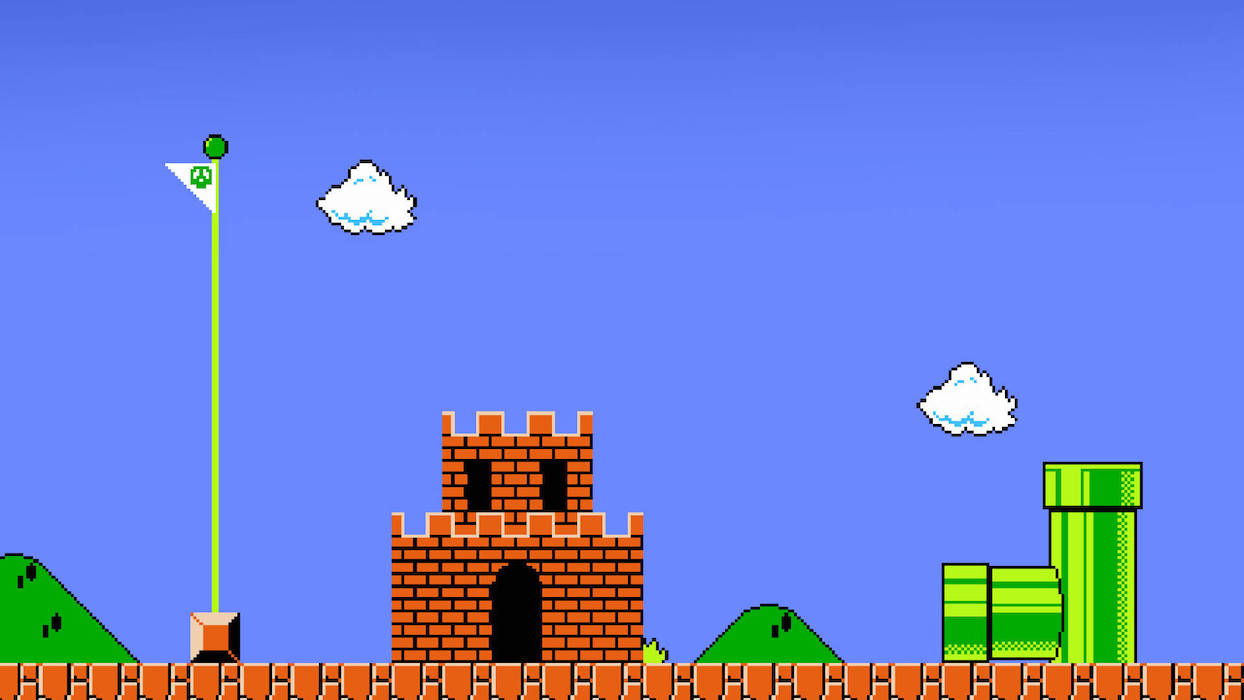
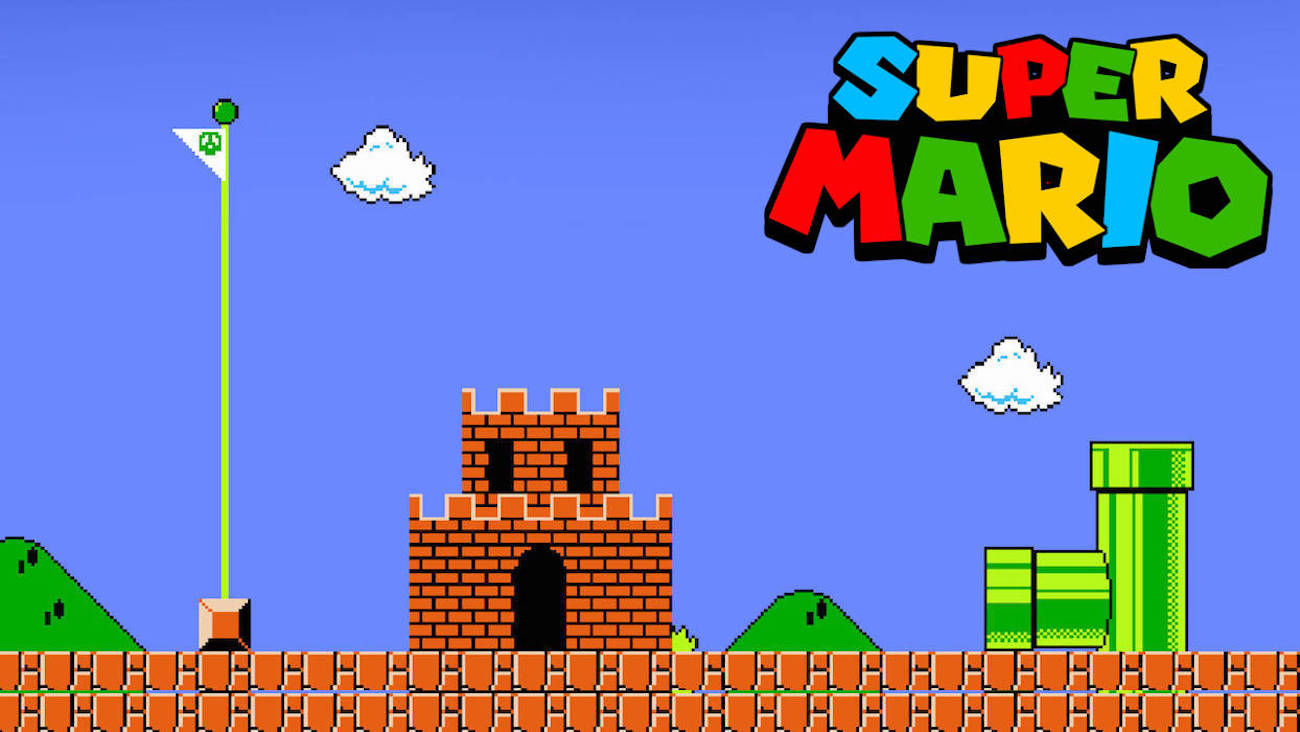
start end credits

diff --git a/main.js b/main.js
@@ -21,6 +21,7 @@ let gameOver;
 let startM;
 let startMenu;
 let end;
+let endCredit;
 let background = document.querySelector(".sliding-background");
 let starttime;
 let isJumping = false;
@@ -130,6 +131,14 @@ const endMessage = () => {
     end.textContent = `Play again by pressing S to defeat Bowser and save the Princess.`;
     game.appendChild(end);
 };
+
+const compMessage = () => {
+    completed = document.createElement("div");
+    completed.id = "completed";
+    completed.textContent = `Thank you Mario! The Kingdom is saved! Now try a more difficult quest...`;
+    game.appendChild(completed);
+};
+
 
 const showScore = () => {
     score = document.createElement("div");
@@ -431,14 +440,13 @@ const breatheFire = () => {
 
             gameObject.bowserShooting = false;
             goombaBump.play();
-            if (currLives > 1 && marioOpacity > 0.25){
-
+            if (currLives > 1 && marioOpacity > 0.25) {
                 marioOpacity -= 0.25;
                 if (mario.classList.length === 2) {
                     mario.classList.toggle("normal");
                 }
                 mario.style.opacity = marioOpacity;
-              }
+            }
             currLives -= 1;
             currScore -= 10;
             lives.textContent = `LIVES: ${currLives}`;
@@ -528,10 +536,17 @@ const createPrincess = () => {
     gameObject.princessExists = true;
 };
 
+const createSavedPrincess = () => {
+    savedprincess = document.createElement("div");
+    savedprincess.setAttribute("id", "savedprincess");
+    savedprincess.style.left = 1100 + "px";
+    game.appendChild(savedprincess);
+};
+
 const createCage = () => {
     cage = document.createElement("div");
     cage.setAttribute("id", "cage");
-    cage.style.left = 1100 + "px";
+    cage.style.left = 1050 + "px";
     game.appendChild(cage);
 };
 
@@ -635,6 +650,12 @@ const startBackground = () => {
     game.appendChild(startMenu);
 };
 
+const endBackground = () => {
+    endCredit = document.createElement("div");
+    endCredit.id = "endCredit";
+    game.appendChild(endCredit);
+};
+
 const moveGoomba = () => {
     goombaLeft -= 6;
 
@@ -643,13 +664,12 @@ const moveGoomba = () => {
         goombaLeft = 0;
         goomba.remove();
         gameObject.goombaExists = false;
-        if (currLives > 1 && marioOpacity > 0.25){
-
-          marioOpacity -= 0.25;
-          if (mario.classList.length === 2) {
-              mario.classList.toggle("normal");
-          }
-          mario.style.opacity = marioOpacity;
+        if (currLives > 1 && marioOpacity > 0.25) {
+            marioOpacity -= 0.25;
+            if (mario.classList.length === 2) {
+                mario.classList.toggle("normal");
+            }
+            mario.style.opacity = marioOpacity;
         }
 
         currLives -= 1;
@@ -779,8 +799,8 @@ const fireCollisionCheck = () => {
             fireBall.getBoundingClientRect().left <
                 mario.getBoundingClientRect().right &&
             fireBall.getBoundingClientRect().left >
-                mario.getBoundingClientRect().left 
-                && mario.getBoundingClientRect().bottom >= 614
+                mario.getBoundingClientRect().left &&
+            mario.getBoundingClientRect().bottom >= 614
         ) {
             console.log("mario flamesed");
             return true;
@@ -1023,13 +1043,13 @@ const control = (e) => {
         if (gameObject.start) {
             startM.remove();
             startMenu.remove();
-           
+
             gameObject.start = false;
         }
-    }else if (e.key === "s" || e.key === "S"){
-      if (gameObject.endGame){
-        location.reload();
-      }
+    } else if (e.key === "s" || e.key === "S") {
+        if (gameObject.endGame) {
+            location.reload();
+        }
     }
 };
 document.addEventListener("keydown", function (e) {
@@ -1044,13 +1064,13 @@ document.addEventListener("keydown", function (e) {
 // endMessage();
 
 const prizeGenerator = () => {
-    if (!gameObject.marioCanShoot) randomPrizePicker = Math.random() * 4;
+    if (!gameObject.marioCanShoot) randomPrizePicker = Math.random() * 2;
 
-    if (gameObject.marioCanShoot) randomPrizePicker = Math.random() * 3;
+    if (gameObject.marioCanShoot) randomPrizePicker = Math.random() * 1;
     if (randomPrizePicker < 1) createCoin();
-    if (randomPrizePicker >= 1 && randomPrizePicker < 2) createGreenMushroom();
-    if (randomPrizePicker >= 2 && randomPrizePicker < 3) createRedMushroom();
-    if (randomPrizePicker >= 3) createBlueShell();
+    // if (randomPrizePicker >= 1 && randomPrizePicker < 2) createGreenMushroom();
+    // if (randomPrizePicker >= 2 && randomPrizePicker < 3) createRedMushroom();
+    if (randomPrizePicker >= 1) createBlueShell();
 
     console.log("randomPrizePicker => ", randomPrizePicker);
     console.log("coin check => ", gameObject.coinExists);
@@ -1106,11 +1126,12 @@ const gameLoop = (timestamp) => {
         prizeCounter++;
         //bowserFireCounter++
 
-        if (currScore > 50 && !gameObject.bowserExists) {
+        if (currScore > 5 && !gameObject.bowserExists) {
             createBowser();
             createBowserFire();
 
-            //   createPrincess();
+            createPrincess();
+            //createCage();
             //gameObject.bowserShooting = true;
 
             //console.log("change background");
@@ -1123,10 +1144,10 @@ const gameLoop = (timestamp) => {
             bowserMusic.play();
             bowserFireCounter++;
 
-            if (bowserStrength === 20) {
-                createPrincess();
-                createCage();
-            }
+            // if (bowserStrength === 20) {
+            //     createPrincess();
+            //     createCage();
+            // }
             //if (bowserFireCounter > 100) bowserFireCounter =0;
             if (
                 gameObject.bowserExists &&
@@ -1220,20 +1241,28 @@ const gameLoop = (timestamp) => {
     if (currTime > 0 && currLives > 0 && !princessSavedCheck()) {
         requestAnimationFrame(gameLoop);
     } else if (princessSavedCheck()) {
-        alert(
-            `YOU SAVED THE PRINCESS AND WON THE GAME WITH A SCORE OF ${currTime + currScore}, CLICK OK OR HIT ENTER TO RESTART THE GAME!!!!`
-        );
-        location.reload();
+        princess.remove();
+        createSavedPrincess();
+        endCredit.style.display = "block";
+        compMessage()
+        // alert(
+        //     `YOU SAVED THE PRINCESS AND WON THE GAME WITH A SCORE OF ${
+        //         currTime + currScore
+        //     }, CLICK OK OR HIT ENTER TO RESTART THE GAME!!!!`
+        // );
+        // location.reload();
         // alert(
         //     "YOU SAVED THE PRINCESS AND WON THE GAME, CLICK OK OR HIT ENTER TO RESTART THE GAME!!!!"
         // );
     } else if (currTime === 0) {
         alert(
-            `YOU RAN OUT OF TIME AND LOST THE GAME WITH A SCORE OF ${currTime + currScore}, CLICK OK OR HIT ENTER TO RESTART THE GAME!!!!`
+            `YOU RAN OUT OF TIME AND LOST THE GAME WITH A SCORE OF ${
+                currTime + currScore
+            }, CLICK OK OR HIT ENTER TO RESTART THE GAME!!!!`
         );
         location.reload();
     } else if (currLives === 0) {
-      gameObject.endGame = true;
+        gameObject.endGame = true;
         gameOver.style.display = "block";
         end.style.display = "block";
 
@@ -1243,12 +1272,14 @@ const gameLoop = (timestamp) => {
         // location.reload();
     }
 };
+gameover();
+endMessage();
+
 createPlatform();
 createPrizePlatform();
 
 startMessage();
 startBackground();
-gameover();
-endMessage();
+endBackground();
 
 requestAnimationFrame(gameLoop);

diff --git a/style.css b/style.css
@@ -53,19 +53,25 @@
 #princess {
   position: absolute;
   bottom: 95px;
-  height: 200px;
-  width: 196px;
+  height: 119px;
+  width: 78px;
   background: url('img/tumblr_7a922b7e02b6db9655fb212fc2a26b96_f5be641b_640.png') 0px 0px;
 }
 
-
-#cage {
+#savedprincess {
   position: absolute;
   bottom: 95px;
-  height: 120px;
-  width: 69px;
-  background: url('img/53c98f365877f6f38fdcdeb3658ac2df.png') 0px 0px;
+  height: 105px;
+  width: 60px;
+  background: url('img/tumblr_7a922b7e02b6db9655fb212fc2a26b96_f5be641b_6401.png') 0px 0px;
 }
+/* #cage {
+  position: absolute;
+  bottom: 45px;
+  height: 200px;
+  width: 196px;
+  background: url('img/53c98f365877f6f38fdcdeb3658ac2df.png') 0px 0px;
+} */
 
 
 #fire {
@@ -183,7 +189,18 @@
 #gameOver {
   position: absolute;
   left: 480px;
-  bottom: 400px;
+  bottom: 360px;
+  width: 450px;
+  height: 30px;
+  font-family: "Press Start 2P", cursive;
+  color: azure;
+  display: none;
+}
+
+#completed {
+  position: absolute;
+  left: 480px;
+  bottom: 360px;
   width: 450px;
   height: 30px;
   font-family: "Press Start 2P", cursive;
@@ -224,6 +241,9 @@
   color: azure;
 }
 
+
+
+
 #game {
   width: 1300px;
   height: 700px;
@@ -242,6 +262,16 @@
   display: block;
   background: url("img/pngwing.com.png") 0px 0px;
 }
+
+#endCredit {
+  width: 1300px;
+  height: 700px;
+  position: relative;
+  bottom: 700px;
+  display: none;
+  background: url("img/finish-super-mario-wallpaper-wallpaper-0sxanxkxzvo8u54s.jpg") 0px 0px;
+}
+
 
 .container {
   overflow: hidden;
